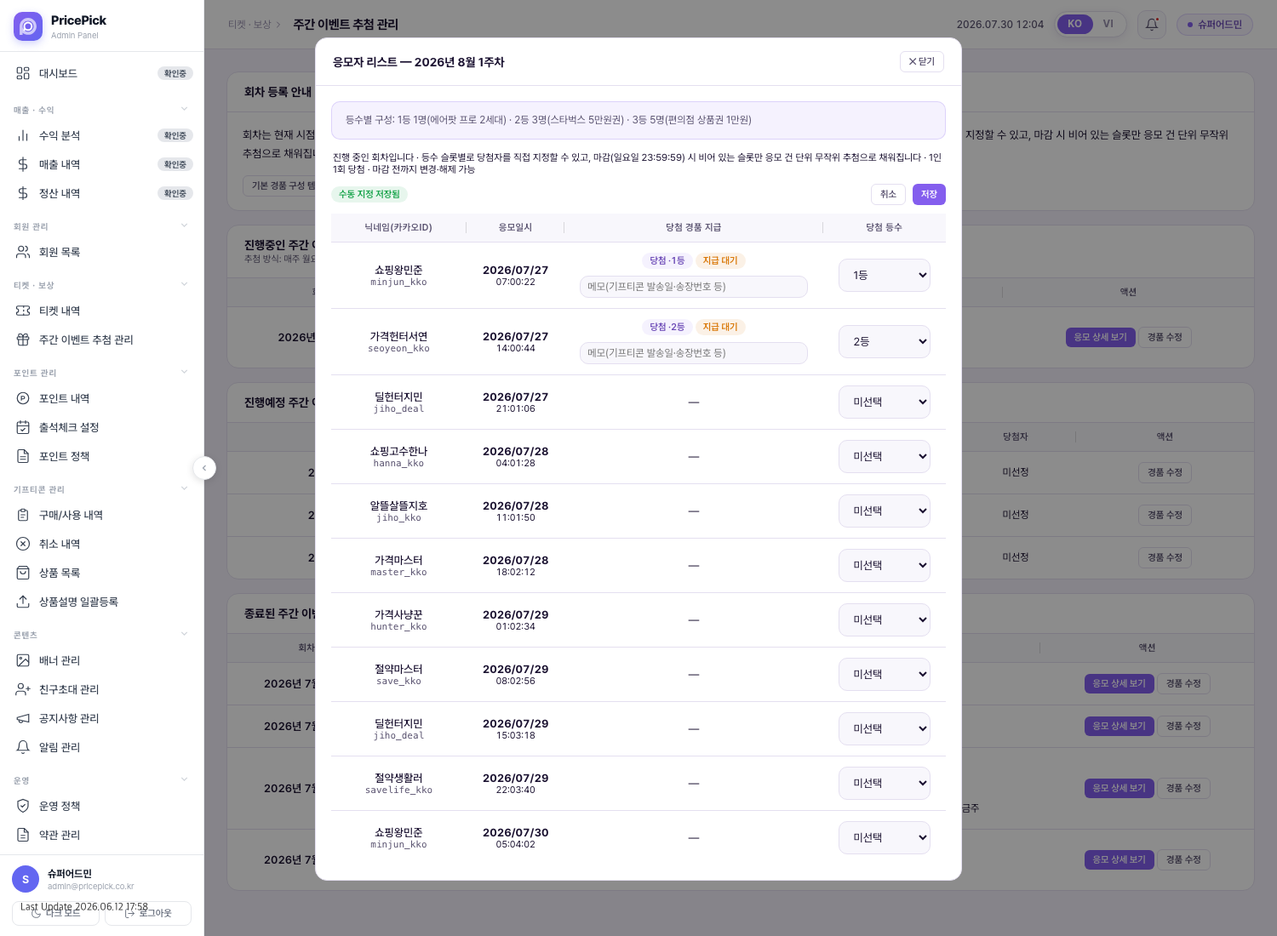
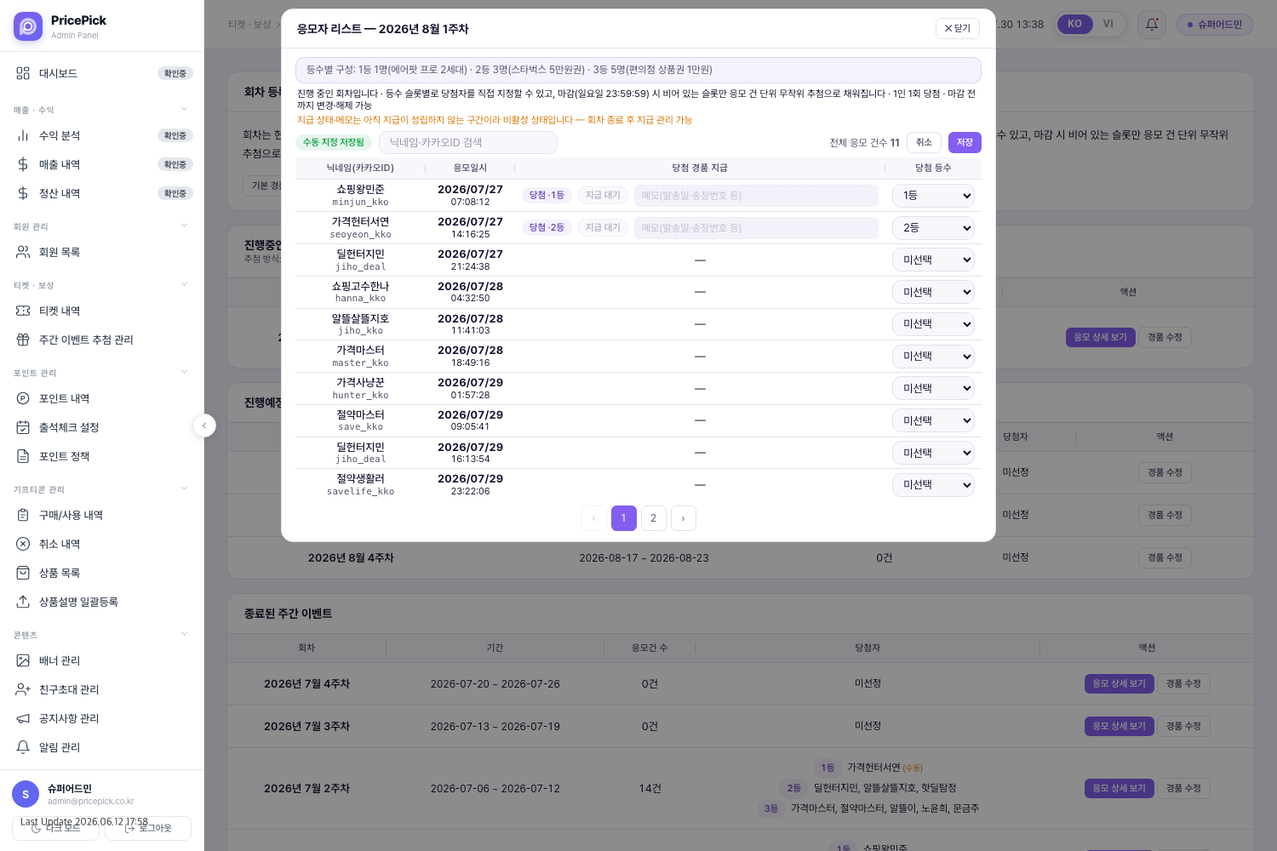
진행 중 회차 지급 관리 비활성화: CMS 원본 이식 + 설명서·정정 안내문 반영
마감 전에는 지급이 성립하지 않으므로 진행 중인 회차의 지급 상태 뱃지·메모칸을 잠근다(김반장 확정).

- cms.html: 데모와 동일 이식. pdPayoutLocked()로 렌더·가드를 한 곳에서 판정, 진행 중 회차는
  지급 뱃지에 클릭 핸들러 미부착(.pd-payout-off 회색·점선) + 메모칸 disabled, 두 요소에
  title 툴팁 "회차 종료 후 지급 관리 가능". 응모자 리스트 상단 안내를 2줄로 늘려 둘째 줄(앰버)에
  비활성 이유 명시. pdTogglePaid·pdSaveMemo에도 가드. 종료 회차는 기존대로 정상 동작. KO/VI 사전 2건.
- cms-storyboard/weekly-draws.html: 6절에 "지급 관리는 종료된 회차에서만 열린다" 문단 추가,
  주의사항에 비활성 콜아웃 신설, 운영 시나리오의 수동 지정 행에 지급 비활성 사실 명기.
  캡처 2종 재촬영 — 진행중(드롭다운 + 지급 비활성) / 종료(결과 뱃지 + 지급 활성)로 대비되게.
  두 캡처 모두 병렬 세션의 검색·페이지네이션·행 밀도 압축이 반영된 최신 UI 기준.
- devqa/cms-draw-manual-20260730.html: 5절 신설(추가 확정 — 진행 중 회차 지급 관리 비활성),
  구현 주의로 "화면 핸들러만 떼지 말고 토글·메모 함수에도 가드" 명시. 2절·반영 위치 갱신.

검증: 실브라우저에서 진행 중 회차 비활성(뱃지·메모·툴팁·안내 2줄) + 우회 호출 차단 확인,
종료 회차 토글·메모·저장 및 localStorage 반영 확인, KO/VI 양쪽 확인. 설명서 KO/VI 잔존 한글 0건.

diff --git a/cms-storyboard/weekly-draws.html b/cms-storyboard/weekly-draws.html
@@ -103,12 +103,13 @@ code{font-family:'SF Mono',Menlo,monospace;font-size:11.5px;background:var(--bg)
 <p><span class="i18n"><span class="ko">마감 시각이 되면 시스템이 <b>비어 있는 슬롯만</b> 채운다. 수동 지정된 사람을 뺀 나머지 응모 행을 전부 무작위로 섞은 뒤, 등수별로 남은 자리만큼 1등부터 순서대로 채우고, <b>같은 사람이 두 번 당첨되는 일은 막는다</b>(이미 당첨된 사람의 다른 응모 행은 건너뜀). 이렇게 확정된 뒤에는 <b>운영자가 당첨자를 바꿀 수 없다</b> — 종료된 회차의 "당첨 등수" 칸은 드롭다운이 아니라 결과 뱃지로만 보인다. 데모 환경에는 서버 크론이 없어서, 실제로는 CMS 화면을 여는 시점에 "마감은 지났는데 아직 추첨 안 된 회차"가 있는지 확인해 그 자리에서 대신 처리한다(운영자 눈에는 차이가 없다).</span><span class="vi">Khi đến giờ đóng đợt, hệ thống chỉ lấp <b>những suất còn trống</b>. Hệ thống xáo trộn ngẫu nhiên toàn bộ dòng dự thưởng còn lại sau khi trừ người đã được chỉ định thủ công, rồi lấp đúng số chỗ còn thiếu của từng hạng theo thứ tự từ hạng 1, đồng thời <b>chặn việc 1 người trúng hai lần</b> (bỏ qua các dòng dự thưởng khác của người đã trúng). Sau khi đã chốt như vậy thì <b>Vận hành viên không thể đổi người trúng</b> — cột "Hạng trúng thưởng" của đợt đã kết thúc chỉ hiện badge kết quả, không phải dropdown. Vì môi trường demo không có cron server, trên thực tế hệ thống kiểm tra vào lúc mở màn CMS xem có đợt nào "đã đóng nhưng chưa rút thăm" không rồi xử lý thay ngay lúc đó (Vận hành viên nhìn thấy không khác gì nhau).</span></span></p>
 <p><span class="i18n"><span class="ko">당첨으로 뽑힌 응모 행에는 <b>"당첨 · N등" 뱃지</b>가 붙고, 이런 행들은 등수 순서로 리스트 맨 위에 모인다. 회차 리스트의 "당첨자" 칸에서는 운영자가 직접 지정한 당첨자 뒤에 <b>"(수동)" 표시</b>가 붙어 자동 추첨분과 구분된다.</span><span class="vi">Dòng dự thưởng được chọn trúng sẽ có <b>badge "Trúng thưởng · Hạng N"</b>, và các dòng này được gom lên đầu danh sách theo thứ tự hạng. Ở cột "Người trúng" của danh sách đợt, người trúng do Vận hành viên trực tiếp chỉ định sẽ có thêm <b>ký hiệu "(thủ công)"</b> để phân biệt với phần rút thăm tự động.</span></span></p>
 <p><span class="i18n"><span class="ko">응모자가 많은 회차를 대비해 리스트 위에 <b>닉네임 검색창</b>이 있고, 리스트는 <b>10건씩 페이지로 나뉜다</b>. 검색은 닉네임과 카카오 아이디를 둘 다 부분 일치로 잡는다(대소문자 구분 없음) — "지민"만 쳐도 "딜헌터지민"이 걸린다. 검색창 오른쪽에는 <b>전체 응모 건수</b>가 항상 떠 있고, 검색 중에는 "검색 결과 N / 전체 응모 건수 M" 형태로 둘 다 보여준다(총계는 티켓 1장 = 1행 기준 그대로다). 정렬 규칙은 검색·페이지와 무관하게 그대로다 — <b>당첨자를 등수 순으로 먼저 세우고 그 뒤에 나머지</b>를 붙인 순서를 정해놓고 그 순서 그대로 10건씩 끊기 때문에, 1페이지 맨 위는 항상 1등이다. 당첨 뱃지·지급 상태 뱃지·메모칸도 검색 결과 안에서 똑같이 눌리고 입력된다. 검색어를 바꾸면 1페이지로 돌아가고, 모달을 닫았다 다시 열면 검색어·페이지가 초기화된다. 10건 이하면 페이지 버튼은 아예 안 나온다.</span><span class="vi">Để chuẩn bị cho các đợt có nhiều người dự thưởng, phía trên danh sách có <b>ô tìm kiếm biệt danh</b>, và danh sách được <b>chia trang 10 dòng mỗi trang</b>. Tìm kiếm khớp một phần cả biệt danh lẫn Kakao ID (không phân biệt hoa thường) — chỉ gõ "지민" cũng ra "딜헌터지민". Bên phải ô tìm kiếm luôn hiện <b>tổng số lượt dự thưởng</b>, khi đang tìm kiếm thì hiện cả hai theo dạng "Kết quả tìm kiếm N / Tổng số lượt dự thưởng M" (tổng số vẫn tính theo chuẩn 1 vé = 1 dòng như cũ). Quy tắc sắp xếp không đổi dù có tìm kiếm hay chia trang — <b>xếp người trúng lên trước theo thứ tự hạng rồi mới nối phần còn lại</b>, sau đó mới cắt 10 dòng mỗi trang theo đúng thứ tự đó, nên đầu trang 1 luôn là hạng 1. Badge trúng thưởng·badge trạng thái gửi quà·ô ghi chú trong kết quả tìm kiếm cũng bấm và nhập được y hệt. Đổi từ khóa thì quay về trang 1, đóng modal rồi mở lại thì từ khóa·trang được đặt lại. Nếu từ 10 dòng trở xuống thì nút chuyển trang không hiện.</span></span></p>
-<div class="shot"><img src="img/weekly-draws-02-entrants-modal.png" alt="응모자 리스트 — 미선정 상태, 다중 응모"><div class="cap"><span class="i18n"><span class="ko">실측 캡처 — <b>진행 중 회차</b>의 응모자 리스트(cms.html 기준). "당첨 등수"가 드롭다운이고, 1등·2등 슬롯이 수동 지정·저장된 상태(뱃지 "수동 지정 저장됨"). 같은 닉네임이 여러 행에 반복되는 게 다중 응모. 데모(트랙B)에는 이 표 위에 닉네임 검색창·페이지 버튼이 함께 붙는다</span><span class="vi">Ảnh chụp thực tế — danh sách người dự thưởng của <b>đợt đang diễn ra</b> (theo cms.html). Cột "Hạng trúng thưởng" là dropdown, và suất hạng 1·hạng 2 đang ở trạng thái đã chỉ định thủ công·đã lưu (badge "Đã lưu chỉ định thủ công"). Cùng 1 biệt danh lặp lại nhiều dòng là dự thưởng nhiều lần. Ở demo (track B) còn có ô tìm kiếm biệt danh·nút chuyển trang phía trên bảng này</span></span></div></div>
+<div class="shot"><img src="img/weekly-draws-02-entrants-modal.png" alt="응모자 리스트 — 미선정 상태, 다중 응모"><div class="cap"><span class="i18n"><span class="ko">실측 캡처 — <b>진행 중 회차</b>의 응모자 리스트. "당첨 등수"가 드롭다운이고, 1등·2등 슬롯이 수동 지정·저장된 상태(뱃지 "수동 지정 저장됨"). <b>지급 대기 뱃지와 메모칸은 회색 점선으로 비활성</b>이고, 그 이유가 상단 안내 두 번째 줄에 붙어 있다</span><span class="vi">Ảnh chụp thực tế — danh sách người dự thưởng của <b>đợt đang diễn ra</b>. Cột "Hạng trúng thưởng" là dropdown, và suất hạng 1·hạng 2 đang ở trạng thái đã chỉ định thủ công·đã lưu (badge "Đã lưu chỉ định thủ công"). <b>Badge chờ gửi quà và ô ghi chú bị vô hiệu với viền nét đứt màu xám</b>, lý do được ghi ở dòng thứ hai của phần hướng dẫn phía trên</span></span></div></div>
 
 <h2 class="sec"><span class="i18n"><span class="ko">6. 지급 관리</span><span class="vi">6. Quản lý gửi quà</span></span></h2>
 <p><span class="i18n"><span class="ko">당첨자가 확정된 응모 행에는 당첨 뱃지 옆에 <b>지급 상태 뱃지</b>가 나란히 붙는다 — 기본은 "지급 대기"이고, 뱃지를 클릭할 때마다 "지급 완료" ↔ "지급 대기"로 바뀐다. 같은 줄 오른쪽에는 한 줄짜리 자유 메모 칸이 붙어 있어 기프티콘 발송일이나 실물 경품 송장번호 같은 걸 적어둘 수 있다(칸보다 긴 메모는 마우스를 올리면 전체가 뜬다). 메모칸을 뱃지 아래로 펼치지 않고 옆에 붙인 건 <b>한 페이지 10건이 모달 내부 스크롤 없이 다 보이게</b> 하기 위해서다. 지급 상태와 메모는 <b>상단 "저장" 버튼을 눌러야 저장</b>된다 — 뱃지 클릭·메모 입력만으로는 임시 상태이고, 모달을 닫았다 다시 열면 마지막으로 저장된 상태로 돌아간다.</span><span class="vi">Dòng dự thưởng đã chốt người trúng sẽ có <b>badge trạng thái gửi quà</b> đặt cạnh badge trúng thưởng — mặc định "Chờ gửi quà", mỗi lần bấm vào badge sẽ đổi qua lại "Đã gửi quà" ↔ "Chờ gửi quà". Bên phải cùng dòng đó có ô ghi chú tự do một dòng để ghi ngày gửi Gifticon hoặc mã vận đơn quà vật lý (ghi chú dài hơn ô thì rê chuột vào sẽ hiện đầy đủ). Sở dĩ đặt ô ghi chú bên cạnh chứ không trải xuống dưới badge là để <b>10 dòng của một trang hiện hết mà không phải cuộn bên trong modal</b>. Trạng thái gửi quà và ghi chú <b>chỉ lưu khi bấm nút "Lưu"</b> phía trên — chỉ bấm badge/nhập ghi chú thôi vẫn là trạng thái tạm, đóng modal rồi mở lại sẽ trở về trạng thái đã lưu gần nhất.</span></span></p>
+<p><span class="i18n"><span class="ko">단, 지급 관리는 <b>종료된 회차에서만 열린다</b>. 진행 중인 회차에서는 지급 상태 뱃지와 메모칸이 <b>회색 점선으로 비활성</b> 상태로 보이고, 클릭·입력이 되지 않는다 — 아직 마감 전이라 지급이라는 게 성립하지 않기 때문이다. 마우스를 올리면 "회차 종료 후 지급 관리 가능"이라는 툴팁이 뜨고, 리스트 상단 안내에도 같은 내용이 한 줄 붙는다. 진행 중인 회차에서 운영자가 할 수 있는 일은 <b>당첨자 수동 지정까지</b>이고, 지급 관리는 회차가 마감된 뒤에 열린다.</span><span class="vi">Tuy nhiên, quản lý gửi quà <b>chỉ mở ở đợt đã kết thúc</b>. Ở đợt đang diễn ra, badge trạng thái gửi quà và ô ghi chú hiện ở trạng thái <b>vô hiệu với viền nét đứt màu xám</b>, không bấm·nhập được — vì chưa đóng đợt nên việc gửi quà chưa phát sinh. Rê chuột vào sẽ hiện tooltip "Có thể quản lý gửi quà sau khi đợt kết thúc", và phần hướng dẫn ở đầu danh sách cũng có thêm một dòng cùng nội dung. Ở đợt đang diễn ra, việc Vận hành viên làm được <b>chỉ đến mức chỉ định người trúng thủ công</b>; quản lý gửi quà mở ra sau khi đợt đã đóng.</span></span></p>
 <p><span class="i18n"><span class="ko">이 화면은 "보냈는지 아닌지"와 메모만 남기는 최소 기능이다. 기프티콘을 실제로 자동 발송하거나, 당첨자의 배송지·연락처 같은 수령 정보를 입력받는 화면은 <b>따로 없다</b> — 수령 정보가 필요하면 1:1 문의를 통해 운영자가 직접 받는다.</span><span class="vi">Màn này chỉ có chức năng tối thiểu để ghi lại "đã gửi hay chưa" và ghi chú. <b>Không có</b> màn tự động gửi Gifticon thật, hay màn nhập thông tin nhận quà (địa chỉ, số điện thoại...) của người trúng — nếu cần thông tin nhận quà thì Vận hành viên nhận trực tiếp qua Hỏi đáp 1:1.</span></span></p>
-<div class="shot"><img src="img/weekly-draws-03-entrants-applied.png" alt="응모자 리스트 — 당첨자 확정 상태, 지급 완료/대기 혼재"><div class="cap"><span class="i18n"><span class="ko">실측 캡처 — <b>종료된 회차</b>의 당첨자 확정 상태(cms.html 기준). "당첨 등수"가 드롭다운이 아니라 결과 뱃지로만 나온다. 상단 취소/저장 버튼, 당첨 뱃지 + 지급 상태 뱃지("지급 완료"·"지급 대기" 혼재) + 메모칸</span><span class="vi">Ảnh chụp thực tế — trạng thái đã chốt người trúng của <b>đợt đã kết thúc</b> (theo cms.html). Cột "Hạng trúng thưởng" chỉ hiện badge kết quả, không phải dropdown. Nút Hủy/Lưu phía trên, badge trúng thưởng + badge trạng thái gửi quà (lẫn "Đã gửi quà"·"Chờ gửi quà") + ô ghi chú</span></span></div></div>
+<div class="shot"><img src="img/weekly-draws-03-entrants-applied.png" alt="응모자 리스트 — 당첨자 확정 상태, 지급 완료/대기 혼재"><div class="cap"><span class="i18n"><span class="ko">실측 캡처 — <b>종료된 회차</b>의 당첨자 확정 상태. "당첨 등수"가 드롭다운이 아니라 결과 뱃지로만 나온다. <b>여기서는 지급 상태 뱃지·메모칸이 활성</b>이다("지급 완료"·"지급 대기" 혼재) — 진행 중 회차의 비활성 상태와 비교하면 차이가 보인다</span><span class="vi">Ảnh chụp thực tế — trạng thái đã chốt người trúng của <b>đợt đã kết thúc</b>. Cột "Hạng trúng thưởng" chỉ hiện badge kết quả, không phải dropdown. <b>Ở đây badge trạng thái gửi quà·ô ghi chú đang hoạt động</b> (lẫn "Đã gửi quà"·"Chờ gửi quà") — so với trạng thái vô hiệu ở đợt đang diễn ra sẽ thấy rõ khác biệt</span></span></div></div>
 
 <h2 class="sec"><span class="i18n"><span class="ko">7. 앱 연동 — 당첨 알림 · 지난 회차 당첨자 명단</span><span class="vi">7. Liên kết với app — Thông báo trúng thưởng · Danh sách người trúng đợt trước</span></span></h2>
 <p><span class="i18n"><span class="ko">앱으로 나가는 효과는 <b>회차가 마감돼 당첨자가 확정되는 순간</b>에만 생긴다. 진행 중에 수동으로 지정해 둔 것만으로는 앱에 아무 변화가 없다 — 마감 전까지는 당첨 알림도, 명단 노출도 없다.</span><span class="vi">Các hiệu ứng ra phía app chỉ xảy ra <b>ngay khi đợt đóng và người trúng được chốt</b>. Chỉ chỉ định thủ công trong lúc đợt đang diễn ra thì app không thay đổi gì — trước khi đóng đợt sẽ không có thông báo trúng thưởng, cũng không hiện danh sách.</span></span></p>
@@ -124,7 +125,7 @@ code{font-family:'SF Mono',Menlo,monospace;font-size:11.5px;background:var(--bg)
 <h2 class="sec"><span class="i18n"><span class="ko">8. 운영 시나리오</span><span class="vi">8. Kịch bản vận hành</span></span></h2>
 <table>
   <tr><th style="width:190px"><span class="i18n"><span class="ko">상황</span><span class="vi">Tình huống</span></span></th><th><span class="i18n"><span class="ko">운영자가 하는 일</span><span class="vi">Việc Vận hành viên làm</span></span></th><th><span class="i18n"><span class="ko">결과</span><span class="vi">Kết quả</span></span></th></tr>
-  <tr><td><b><span class="i18n"><span class="ko">특정 회원을 당첨자로 지정</span><span class="vi">Chỉ định một thành viên làm người trúng</span></span></b></td><td><span class="i18n"><span class="ko">진행 중인 회차의 "응모 상세 보기"를 열어 그 회원의 응모 행에서 "당첨 등수" 드롭다운으로 등수를 고르고 "저장"</span><span class="vi">Mở "Xem chi tiết dự thưởng" của đợt đang diễn ra, chọn hạng ở dropdown "Hạng trúng thưởng" tại dòng dự thưởng của thành viên đó rồi bấm "Lưu"</span></span></td><td><span class="i18n"><span class="ko">그 슬롯은 확정되고 남은 슬롯만 마감 시 무작위 추첨으로 채워진다. 마감 전까지 변경·해제 가능하며, 앱에는 마감 전까지 아무것도 노출되지 않음</span><span class="vi">Suất đó được chốt và chỉ các suất còn lại được rút thăm ngẫu nhiên khi đóng đợt. Có thể thay đổi·huỷ cho đến khi đóng đợt, và app không hiện gì cho đến khi đóng đợt</span></span></td></tr>
+  <tr><td><b><span class="i18n"><span class="ko">특정 회원을 당첨자로 지정</span><span class="vi">Chỉ định một thành viên làm người trúng</span></span></b></td><td><span class="i18n"><span class="ko">진행 중인 회차의 "응모 상세 보기"를 열어 그 회원의 응모 행에서 "당첨 등수" 드롭다운으로 등수를 고르고 "저장"</span><span class="vi">Mở "Xem chi tiết dự thưởng" của đợt đang diễn ra, chọn hạng ở dropdown "Hạng trúng thưởng" tại dòng dự thưởng của thành viên đó rồi bấm "Lưu"</span></span></td><td><span class="i18n"><span class="ko">그 슬롯은 확정되고 남은 슬롯만 마감 시 무작위 추첨으로 채워진다. 마감 전까지 변경·해제 가능하며, 앱에는 마감 전까지 아무것도 노출되지 않음. 이 단계에서 지급 상태·메모는 비활성이라 손댈 수 없음</span><span class="vi">Suất đó được chốt và chỉ các suất còn lại được rút thăm ngẫu nhiên khi đóng đợt. Có thể thay đổi·huỷ cho đến khi đóng đợt, và app không hiện gì cho đến khi đóng đợt. Ở bước này trạng thái gửi quà·ghi chú bị vô hiệu nên không thao tác được</span></span></td></tr>
   <tr><td><b><span class="i18n"><span class="ko">이번 주 당첨자 확인</span><span class="vi">Xem người trúng tuần này</span></span></b></td><td><span class="i18n"><span class="ko">마감된 회차의 "응모 상세 보기"를 열어 확정된 결과를 확인만 한다 — 종료 회차에서는 당첨자를 바꿀 수 없다</span><span class="vi">Chỉ mở "Xem chi tiết dự thưởng" của đợt đã đóng để xem kết quả đã chốt — với đợt đã kết thúc thì không đổi được người trúng</span></span></td><td><span class="i18n"><span class="ko">당첨자가 등수 순으로 리스트 맨 위에 표시되고, 회차 리스트의 "당첨자" 칸에도 등수별로 표시됨(수동 지정분에는 "(수동)" 표시)</span><span class="vi">Người trúng hiện ở đầu danh sách theo thứ tự hạng, và cột "Người trúng" ở danh sách đợt cũng hiện theo hạng (phần chỉ định thủ công có ký hiệu "(thủ công)")</span></span></td></tr>
   <tr><td><b><span class="i18n"><span class="ko">특정 회원이 응모했는지 확인</span><span class="vi">Kiểm tra một thành viên có dự thưởng không</span></span></b></td><td><span class="i18n"><span class="ko">"응모 상세 보기"를 연 뒤 리스트 위 검색창에 닉네임이나 카카오 아이디 일부를 입력한다 (문의 답변용으로 쓰는 경우가 많다)</span><span class="vi">Mở "Xem chi tiết dự thưởng" rồi nhập một phần biệt danh hoặc Kakao ID vào ô tìm kiếm phía trên danh sách (thường dùng để trả lời hỏi đáp)</span></span></td><td><span class="i18n"><span class="ko">그 회원의 응모 행만 남는다 — 몇 건 응모했는지(=티켓을 몇 장 썼는지), 당첨됐는지까지 한 번에 보인다</span><span class="vi">Chỉ còn lại các dòng dự thưởng của thành viên đó — thấy ngay đã dự thưởng bao nhiêu lượt (=dùng bao nhiêu vé) và có trúng thưởng hay không</span></span></td></tr>
   <tr><td><b><span class="i18n"><span class="ko">경품 발송 완료 표시</span><span class="vi">Đánh dấu đã gửi quà</span></span></b></td><td><span class="i18n"><span class="ko">해당 당첨자의 지급 상태 뱃지를 눌러 "지급 완료"로, 메모칸에 발송일 등 입력 → "저장"</span><span class="vi">Bấm badge trạng thái gửi quà của người trúng đó sang "Đã gửi quà", nhập ngày gửi v.v. vào ô ghi chú → "Lưu"</span></span></td><td><span class="i18n"><span class="ko">다음에 리스트를 열어도 지급 완료 상태와 메모가 그대로 남아 있음</span><span class="vi">Lần sau mở lại danh sách vẫn giữ nguyên trạng thái đã gửi và ghi chú</span></span></td></tr>
@@ -135,6 +136,7 @@ code{font-family:'SF Mono',Menlo,monospace;font-size:11.5px;background:var(--bg)
 <div class="callout warn"><div class="tt"><span class="i18n"><span class="ko">회차를 수동으로 만들거나 지울 수 없다</span><span class="vi">Không thể tự tạo hoặc xóa đợt thủ công</span></span></div><span class="i18n"><span class="ko">주간 이벤트 특성상 회차가 중간에 비면 안 되기 때문에, 회차 등록·삭제 기능은 아예 없다. 회차는 화면 접속 시 자동으로만 채워진다. 경품 구성만 "경품 수정"으로 고칠 수 있다.</span><span class="vi">Vì đặc thù sự kiện tuần không được để trống đợt giữa chừng, nên hoàn toàn không có chức năng tạo·xóa đợt. Đợt chỉ được lấp đầy tự động khi truy cập màn hình. Chỉ có thể sửa cấu hình quà qua "Chỉnh sửa giải thưởng".</span></span></div>
 <div class="callout warn"><div class="tt"><span class="i18n"><span class="ko">당첨자 수동 지정은 진행 중인 회차에서만 된다</span><span class="vi">Chỉ định người trúng thủ công chỉ được với đợt đang diễn ra</span></span></div><span class="i18n"><span class="ko">진행예정 회차는 응모가 0건이라 "응모 상세 보기" 버튼 자체가 없고, 종료된 회차는 당첨자 구성이 이미 확정돼 드롭다운이 나오지 않는다. 즉 지정·변경·해제가 가능한 구간은 <b>회차 시작 후 마감 전까지</b>뿐이다. 마감 뒤에 잘못된 당첨자를 발견해도 CMS에서 바꿀 수 없고, 재추첨 버튼도 없다 — 마감 후 조작 가능한 부분은 지급 상태·메모뿐이다.</span><span class="vi">Đợt sắp diễn ra không có lượt dự thưởng nào nên không có cả nút "Xem chi tiết dự thưởng"; đợt đã kết thúc thì cơ cấu người trúng đã chốt nên không hiện dropdown. Tức là khoảng thời gian có thể chỉ định·thay đổi·huỷ chỉ là <b>từ khi đợt bắt đầu đến trước khi đóng đợt</b>. Nếu sau khi đóng đợt mới phát hiện người trúng sai thì không đổi được trên CMS, cũng không có nút rút thăm lại — sau khi đóng đợt chỉ thao tác được trạng thái gửi quà·ghi chú.</span></span></div>
 <div class="callout warn"><div class="tt"><span class="i18n"><span class="ko">수동 지정도 "저장"을 눌러야 반영된다</span><span class="vi">Chỉ định thủ công cũng phải bấm "Lưu" mới có hiệu lực</span></span></div><span class="i18n"><span class="ko">드롭다운에서 등수를 고른 것만으로는 임시 상태다(뱃지가 "저장 전 (임시 지정)"). 저장하지 않고 모달을 닫으면 지정이 사라지고, 그 슬롯은 비어 있는 것으로 취급돼 마감 시 무작위 추첨으로 채워진다.</span><span class="vi">Chỉ chọn hạng ở dropdown thôi vẫn là trạng thái tạm (badge hiện "Trước khi lưu (chỉ định tạm)"). Nếu đóng modal mà không lưu thì chỉ định biến mất, và suất đó bị coi là còn trống nên sẽ được lấp bằng rút thăm ngẫu nhiên khi đóng đợt.</span></span></div>
+<div class="callout warn"><div class="tt"><span class="i18n"><span class="ko">진행 중인 회차에서는 지급 관리가 비활성이다</span><span class="vi">Ở đợt đang diễn ra, quản lý gửi quà bị vô hiệu</span></span></div><span class="i18n"><span class="ko">지급 상태 뱃지·메모칸은 진행 중인 회차에서 회색 점선으로 비활성 처리돼 클릭·입력이 안 된다. 마감 전에는 지급이 성립하지 않으므로 의도된 동작이다 — 툴팁("회차 종료 후 지급 관리 가능")과 리스트 상단 안내 한 줄로 이유를 알려준다. 지급 기록이 필요하면 회차가 마감된 뒤 종료 구역에서 같은 화면을 열면 된다.</span><span class="vi">Badge trạng thái gửi quà·ô ghi chú ở đợt đang diễn ra bị vô hiệu với viền nét đứt màu xám nên không bấm·nhập được. Trước khi đóng đợt thì việc gửi quà chưa phát sinh, nên đây là hành vi có chủ đích — lý do được thông báo qua tooltip ("Có thể quản lý gửi quà sau khi đợt kết thúc") và một dòng hướng dẫn ở đầu danh sách. Nếu cần ghi lại việc gửi quà thì mở đúng màn đó ở khu vực đã kết thúc sau khi đợt đã đóng.</span></span></div>
 <div class="callout warn"><div class="tt"><span class="i18n"><span class="ko">지급 상태·메모는 "저장"을 눌러야 저장된다</span><span class="vi">Trạng thái gửi quà·ghi chú chỉ lưu khi bấm "Lưu"</span></span></div><span class="i18n"><span class="ko">지급 상태 뱃지를 누르거나 메모를 입력한 것만으로는 저장되지 않는다. 모달을 닫거나(취소) 다시 열면 마지막으로 저장된 상태로 되돌아간다 — 입력 후 반드시 "저장"까지 눌러야 한다.</span><span class="vi">Chỉ bấm badge trạng thái gửi quà hoặc nhập ghi chú thì chưa được lưu. Nếu đóng modal (Hủy) hoặc mở lại thì trở về trạng thái đã lưu gần nhất — sau khi nhập phải bấm "Lưu" mới xong.</span></span></div>
 <div class="callout"><div class="tt"><span class="i18n"><span class="ko">회차명·기간은 이 화면에서 못 바꾼다</span><span class="vi">Không đổi được tên đợt·thời gian ở màn này</span></span></div><span class="i18n"><span class="ko">회차명(예: "2026년 7월 4주차")과 시작·마감일은 자동 등록 규칙(월요일 시작 ~ 일요일 23:59:59 마감)으로 고정돼 있다. "경품 수정" 모달에는 등수별 경품 항목만 있고 이름·기간을 바꾸는 입력칸은 없다.</span><span class="vi">Tên đợt (VD: "Tuần 4 tháng 7 năm 2026") và ngày bắt đầu·đóng đã cố định theo quy tắc đăng ký tự động (bắt đầu Thứ Hai ~ đóng 23:59:59 Chủ Nhật). Modal "Chỉnh sửa giải thưởng" chỉ có mục quà theo hạng, không có ô để đổi tên·thời gian.</span></span></div>
 <div class="callout"><div class="tt"><span class="i18n"><span class="ko">수령 정보 입력·경품 자동 발송은 이 화면 밖 일</span><span class="vi">Nhập thông tin nhận quà·tự động gửi quà nằm ngoài màn này</span></span></div><span class="i18n"><span class="ko">지급 상태·메모는 운영자가 손으로 남기는 기록일 뿐, 기프티콘을 실제로 자동 발송하거나 당첨자의 주소·연락처를 받는 기능은 없다. 그런 정보가 필요하면 1:1 문의로 별도 안내해 받는다.</span><span class="vi">Trạng thái gửi quà·ghi chú chỉ là bản ghi Vận hành viên tự nhập tay, không có chức năng tự động gửi Gifticon thật hay nhận địa chỉ·số điện thoại người trúng. Nếu cần thông tin đó thì hướng dẫn nhận riêng qua Hỏi đáp 1:1.</span></span></div>

diff --git a/devqa/cms-draw-manual-20260730.html b/devqa/cms-draw-manual-20260730.html
@@ -87,13 +87,13 @@ Sau khi lưu, nếu vẫn chưa đóng đợt thì có thể đổi sang dòng d
 
 <b>앱 노출 시점</b> — 당첨 알림(PRIZE_WIN)과 "지난 회차 당첨자 명단"은 <b>마감 후에만</b> 나갑니다. 마감 전에 수동 지정을 저장해도 앱에는 아무 변화가 없습니다. 즉 <code>prize_winners</code> 기록은 마감 시점에 최종 당첨자(수동 지정분 포함) 전체를 한 번에 씁니다 — 수동 지정 저장 시에는 쓰지 않습니다. 여기가 구현에서 가장 틀리기 쉬운 지점입니다.
 
-<b>지급 관리</b> — 지급 상태 뱃지·메모, "저장" 눌러야 반영, 수령 정보는 1:1 문의로 받는 것 모두 그대로입니다.</span><span class="vi"><b>Quy tắc rút thăm tự động</b> — ngẫu nhiên theo đơn vị lượt dự thưởng (1 vé = 1 dòng), lấp theo thứ tự từ hạng 1 cho đến đủ số lượng từng hạng, mỗi người chỉ trúng 1 lần, không hoàn lại. Việc dùng càng nhiều vé thì xác suất càng cao cũng giữ nguyên.
+<b>지급 관리</b> — 지급 상태 뱃지·메모, "저장" 눌러야 반영, 수령 정보는 1:1 문의로 받는 것 모두 그대로입니다. 단, <b>진행 중인 회차에서는 지급 관리가 비활성</b>입니다(아래 5번 참고).</span><span class="vi"><b>Quy tắc rút thăm tự động</b> — ngẫu nhiên theo đơn vị lượt dự thưởng (1 vé = 1 dòng), lấp theo thứ tự từ hạng 1 cho đến đủ số lượng từng hạng, mỗi người chỉ trúng 1 lần, không hoàn lại. Việc dùng càng nhiều vé thì xác suất càng cao cũng giữ nguyên.
 
 <b>Đăng ký đợt tự động</b> — tạo rolling 4 tuần tính từ thời điểm truy cập, bắt đầu 0h Thứ Hai ~ đóng 23:59:59 Chủ Nhật, tên đợt tự động đặt theo ngày đóng. Không có đăng ký·xóa thủ công.
 
 <b>Thời điểm hiển thị trên app</b> — thông báo trúng thưởng (PRIZE_WIN) và "danh sách người trúng đợt trước" chỉ ra <b>sau khi đóng đợt</b>. Dù đã lưu chỉ định thủ công trước khi đóng đợt thì app vẫn không thay đổi gì. Tức là bản ghi <code>prize_winners</code> được viết một lần tại thời điểm đóng đợt cho toàn bộ người trúng cuối cùng (bao gồm phần chỉ định thủ công) — không viết lúc lưu chỉ định thủ công. Đây là điểm dễ làm sai nhất khi triển khai.
 
-<b>Quản lý gửi quà</b> — badge trạng thái gửi quà·ghi chú, phải bấm "Lưu" mới có hiệu lực, thông tin nhận quà nhận qua Hỏi đáp 1:1 — tất cả giữ nguyên.</span></span></div></div></div>
+<b>Quản lý gửi quà</b> — badge trạng thái gửi quà·ghi chú, phải bấm "Lưu" mới có hiệu lực, thông tin nhận quà nhận qua Hỏi đáp 1:1 — tất cả giữ nguyên. Tuy nhiên, <b>ở đợt đang diễn ra thì quản lý gửi quà bị vô hiệu</b> (xem mục 5 bên dưới).</span></span></div></div></div>
 
 <h2 class="grp"><span class="i18n"><span class="ko">3. 데이터 · 화면 처리</span><span class="vi">3. Xử lý dữ liệu · màn hình</span></span></h2>
 
@@ -133,19 +133,40 @@ VI: Người trúng thưởng được chọn theo một số tiêu chí vận h
 
 Đã đổi <b>"Tự động công bố người trúng" → "Công bố người trúng"</b> ở thẻ hero (chữ "tự động" gây hiểu nhầm rằng cả cách chọn cũng tự động). Bản thân việc chỉ định thủ công không hiển thị trên app.</span></span></div></div></div>
 
-<h2 class="grp"><span class="i18n"><span class="ko">5. 반영 위치</span><span class="vi">5. Nơi đã phản ánh</span></span></h2>
+<h2 class="grp"><span class="i18n"><span class="ko">5. 추가 확정 — 진행 중 회차는 지급 관리 비활성</span><span class="vi">5. Chốt bổ sung — Đợt đang diễn ra thì quản lý gửi quà bị vô hiệu</span></span></h2>
+
+<div class="qa"><div class="qrow"><span class="qno">추가</span><div class="qtxt"><span class="i18n"><span class="ko">진행 중인 회차에서 지급 상태 뱃지와 메모칸을 비활성 처리 (김반장 추가 확정 2026-07-30)</span><span class="vi">Vô hiệu badge trạng thái gửi quà và ô ghi chú ở đợt đang diễn ra (anh chốt bổ sung 30/07/2026)</span></span></div><span class="bd ok"><span class="i18n"><span class="ko">확정</span><span class="vi">Đã chốt</span></span></span></div>
+<div class="arow"><span class="alabel"><span class="i18n"><span class="ko">스펙</span><span class="vi">Spec</span></span></span><div class="atxt"><span class="i18n"><span class="ko">회차 상태에 따라 지급 관리가 갈립니다.
+
+<b>진행 중인 회차</b> — 지급 상태 뱃지("지급 대기"/"지급 완료")와 메모칸을 <b>비활성</b>으로 렌더합니다. 뱃지에는 클릭 핸들러를 아예 붙이지 않고, 메모 input에는 <code>disabled</code>를 걸었습니다. 회색 + 점선 테두리로 비활성임이 보이게 했고, 왜 못 쓰는지 알 수 있도록 <b>두 곳에서 안내</b>합니다 — 뱃지·메모칸 <code>title</code> 툴팁("회차 종료 후 지급 관리 가능")과 리스트 상단 안내 두 번째 줄("지급 상태·메모는 아직 지급이 성립하지 않는 구간이라 비활성 상태입니다 — 회차 종료 후 지급 관리 가능", 앰버색).
+
+<b>종료된 회차</b> — 지금까지와 동일하게 정상 동작합니다(뱃지 클릭 토글, 메모 입력, "저장"으로 커밋).
+
+<b>이유</b> — 마감 전에는 지급이라는 게 성립하지 않습니다. 진행 중 회차에서 운영자가 할 수 있는 일은 <b>당첨자 수동 지정까지</b>입니다.
+
+<b>구현 주의</b> — 화면에서 핸들러를 떼는 것만으로 끝내지 말고 <code>pdTogglePaid</code>·<code>pdSaveMemo</code> 진입부에도 같은 조건으로 가드를 두세요. 저희 구현은 <code>pdPayoutLocked()</code>(= 현재 회차 phase가 active인지) 한 함수로 렌더·가드를 같이 판정합니다. 토글을 우회 호출하면 토스트("회차 종료 후 지급 관리 가능")만 뜨고 상태는 바뀌지 않습니다.</span><span class="vi">Quản lý gửi quà khác nhau theo trạng thái của đợt.
+
+<b>Đợt đang diễn ra</b> — render badge trạng thái gửi quà ("Chờ gửi quà"/"Đã gửi quà") và ô ghi chú ở trạng thái <b>vô hiệu</b>. Badge không gắn handler click, ô ghi chú đặt <code>disabled</code>. Dùng màu xám + viền nét đứt để thấy rõ là vô hiệu, và <b>thông báo ở hai nơi</b> để biết lý do — tooltip <code>title</code> trên badge·ô ghi chú ("Có thể quản lý gửi quà sau khi đợt kết thúc") và dòng thứ hai của phần hướng dẫn phía trên danh sách ("Trạng thái gửi quà·ghi chú đang bị vô hiệu vì chưa tới lúc phát sinh việc gửi quà — có thể quản lý gửi quà sau khi đợt kết thúc", màu hổ phách).
+
+<b>Đợt đã kết thúc</b> — hoạt động bình thường như trước (bấm badge để đổi, nhập ghi chú, commit bằng "Lưu").
+
+<b>Lý do</b> — trước khi đóng đợt thì việc gửi quà chưa phát sinh. Ở đợt đang diễn ra, việc Vận hành viên làm được <b>chỉ đến mức chỉ định người trúng thủ công</b>.
+
+<b>Lưu ý khi triển khai</b> — đừng chỉ bỏ handler ở phía màn hình; hãy đặt guard cùng điều kiện ở đầu <code>pdTogglePaid</code>·<code>pdSaveMemo</code>. Bên mình dùng một hàm <code>pdPayoutLocked()</code> (= phase của đợt hiện tại có phải active) để quyết định cả render lẫn guard. Nếu gọi vòng qua hàm toggle thì chỉ hiện toast ("Có thể quản lý gửi quà sau khi đợt kết thúc") và trạng thái không đổi.</span></span></div></div></div>
+
+<h2 class="grp"><span class="i18n"><span class="ko">6. 반영 위치</span><span class="vi">6. Nơi đã phản ánh</span></span></h2>
 
 <div class="qa"><div class="arow" style="border-top:none;margin-top:0;padding-top:0"><span class="alabel"><span class="i18n"><span class="ko">확인</span><span class="vi">Kiểm tra</span></span></span><div class="atxt"><span class="i18n"><span class="ko">· <b>CMS 데모</b> pricepick-demo/cms — 응모자 리스트 드롭다운 부활, 마감 시 빈 슬롯만 추첨, prize_winners 마감 시 일괄 기록
 · <b>CMS 원본</b> cms.html — 동일 이식
 · <b>앱 데모</b> pricepick-demo/app · <b>인터랙티브 정본</b> interactive.html — "추첨 방식" 안내 신규 + 히어로 문구 정정 (KO/VI)
 · <b>마스터 정책서</b> policyspec.html — 10번 탭 "추첨·경품"의 당첨자 선정·당첨 확률·운영 항목 갱신 + 확정 재확인 탭에 정정 카드 신설
-· <b>CMS 설명서</b> cms-storyboard/weekly-draws.html — 1·3·5·7·8·9번 절 갱신, 캡처 재촬영(진행중 회차 드롭다운 · 종료 회차 결과 뱃지)
+· <b>CMS 설명서</b> cms-storyboard/weekly-draws.html — 1·3·5·6·7·8·9번 절 갱신(6번에 지급 관리 비활성 규칙 추가), 캡처 재촬영(진행중 회차 드롭다운·지급 비활성 / 종료 회차 결과 뱃지·지급 활성)
 
 <b>남은 확인 1건</b> — 약관 제10조(추첨 및 경품)는 "당첨자 발표 및 경품 지급 방법은 각 회차별로 고지합니다"로 되어 있어 새 스펙과 충돌하지 않습니다. 다만 앱에 "일부 운영 기준에 따라 선정"을 고지하는 만큼, 약관에도 선정 기준 관련 한 문장을 넣을지는 김반장 판단이 필요합니다.</span><span class="vi">· <b>CMS demo</b> pricepick-demo/cms — phục hồi dropdown ở danh sách người dự thưởng, khi đóng đợt chỉ rút thăm suất còn trống, ghi prize_winners một lần khi đóng đợt
 · <b>CMS gốc</b> cms.html — port y hệt
 · <b>App demo</b> pricepick-demo/app · <b>Interactive bản chính</b> interactive.html — thêm mới mục "Phương thức rút thăm" + đính chính nội dung thẻ hero (KO/VI)
 · <b>Tài liệu chính sách gốc</b> policyspec.html — cập nhật các mục chọn người trúng·xác suất trúng·vận hành ở tab 10 "Rút thăm·Quà tặng" + thêm thẻ đính chính ở tab xác nhận lại
-· <b>Tài liệu CMS</b> cms-storyboard/weekly-draws.html — cập nhật mục 1·3·5·7·8·9, chụp lại ảnh (dropdown ở đợt đang diễn ra · badge kết quả ở đợt đã kết thúc)
+· <b>Tài liệu CMS</b> cms-storyboard/weekly-draws.html — cập nhật mục 1·3·5·6·7·8·9 (mục 6 thêm quy tắc vô hiệu quản lý gửi quà), chụp lại ảnh (đợt đang diễn ra: dropdown·gửi quà vô hiệu / đợt đã kết thúc: badge kết quả·gửi quà hoạt động)
 
 <b>1 việc còn cần xác nhận</b> — Điều 10 của Điều khoản (Rút thăm và quà tặng) ghi "Phương pháp công bố người trúng và gửi quà sẽ được thông báo theo từng đợt" nên không xung đột với spec mới. Tuy nhiên vì app có thông báo "được chọn theo một số tiêu chí vận hành", việc có thêm một câu về tiêu chí chọn vào Điều khoản hay không cần anh quyết định.</span></span></div></div>
 

diff --git a/cms.html b/cms.html
@@ -508,6 +508,11 @@ body.dark .member-type-apple::before{background:#E5E7EB;}
   color:var(--text);font-family:var(--font);outline:none;text-align:left;transition:border-color .15s;}
 .pd-memo-input:focus{border-color:var(--main);}
 .pd-memo-input::placeholder{color:var(--text-3);}
+/* 진행 중인 회차: 아직 지급이 성립하지 않으므로 지급 상태 뱃지·메모칸을 비활성 표시 */
+.pd-memo-input:disabled{background:var(--surface-3,var(--surface-2));color:var(--text-3);
+  border-style:dashed;opacity:.6;cursor:not-allowed;}
+.badge.pd-payout-off{background:var(--surface-2);color:var(--text-3);border:1px dashed var(--border);
+  opacity:.75;cursor:not-allowed;}
 
 /* ── 마케팅 수신 배지 ── */
 .mkt-badge{display:inline-flex;align-items:center;padding:3px 9px;border-radius:20px;font-size:11px;font-weight:600;}
@@ -4302,6 +4307,11 @@ function pdRankBadgeHtml(r) {
 function pdConfirmedWinnerFor(uid) {
   return pdConfirmedWinners.find(function(w){ return w.user_id === uid; });
 }
+/* 지급 관리(지급 상태 뱃지 토글·메모 입력) 잠금 여부 — 진행 중인 회차는 마감 전이라 지급이 성립하지 않는다.
+   진행 중 회차에서 운영자가 할 수 있는 일은 당첨자 수동 지정까지이고, 지급 관리는 회차 종료 후에 열린다. */
+function pdPayoutLocked() {
+  return pdCurrentRoundPhase === 'active';
+}
 /* 당첨 뱃지 — 확정된(적용됨) 당첨자면 지급 상태 뱃지를 나란히 붙인다. 임시 선택 상태는 지급 상태가 아직 없으므로 당첨 뱃지만.
    "N등"은 별도 노드로 분리해 KO2VI 사전 매칭, "당첨 ·"·지급 상태 라벨도 사전 항목으로 매칭(언어 토글 시 자동 재번역). */
 function pdWinnerTagHtml(uid, r) {
@@ -4310,7 +4320,10 @@ function pdWinnerTagHtml(uid, r) {
   if (w) {
     var paid = !!w.paid;
     var payoutLabel = paid ? '지급 완료' : '지급 대기';
-    html += '<span class="badge ' + (paid ? 'badge-green' : 'badge-amber') + '" style="cursor:pointer" onclick="pdTogglePaid(\'' + uid + '\')">' + payoutLabel + '</span>';
+    /* 진행 중인 회차는 아직 지급이 성립하지 않으므로 토글 불가 — 클릭 핸들러를 아예 붙이지 않고 비활성 표시 */
+    html += pdPayoutLocked()
+      ? '<span class="badge pd-payout-off" title="회차 종료 후 지급 관리 가능">' + payoutLabel + '</span>'
+      : '<span class="badge ' + (paid ? 'badge-green' : 'badge-amber') + '" style="cursor:pointer" onclick="pdTogglePaid(\'' + uid + '\')">' + payoutLabel + '</span>';
   }
   return html;
 }
@@ -4321,6 +4334,10 @@ function pdMemoInputHtml(uid) {
   var w = pdConfirmedWinnerFor(uid);
   if (!w) return '';
   var v = ppEsc(w.memo || '');
+  /* 진행 중인 회차는 지급 자체가 아직 없으므로 메모칸도 입력 불가(비활성) — 이유는 툴팁으로 알린다 */
+  if (pdPayoutLocked()) {
+    return '<input class="pd-memo-input" placeholder="메모(발송일·송장번호 등)" title="회차 종료 후 지급 관리 가능" value="' + v + '" disabled>';
+  }
   return '<input class="pd-memo-input" placeholder="메모(발송일·송장번호 등)" title="' + v + '" value="' + v + '" onchange="pdSaveMemo(\'' + uid + '\', this.value)">';
 }
 /* 운영자가 직접 지정한 당첨자는 "(수동)" 표시를 붙여 자동 추첨분과 구분한다 */
@@ -4629,9 +4646,13 @@ function pdUpdateEntStatusBadge() {
 function pdRefreshEntrantsNote() {
   var el = document.getElementById('pd-ent-note');
   if (!el) return;
-  el.textContent = (pdCurrentRoundPhase === 'active')
-    ? '진행 중인 회차입니다 · 등수 슬롯별로 당첨자를 직접 지정할 수 있고, 마감(일요일 23:59:59) 시 비어 있는 슬롯만 응모 건 단위 무작위 추첨으로 채워집니다 · 1인 1회 당첨 · 마감 전까지 변경·해제 가능'
-    : '마감 시 비어 있던 등수 슬롯이 응모 건 단위 무작위 추첨으로 채워져 확정된 결과입니다 · 1인 1회 당첨 · 종료된 회차는 당첨자를 변경할 수 없습니다';
+  /* 진행 중 회차는 안내 2줄 — 위: 수동 지정 규칙, 아래: 지급 관리가 잠긴 이유(비활성 표시와 짝) */
+  if (pdCurrentRoundPhase === 'active') {
+    el.innerHTML = '<div>진행 중인 회차입니다 · 등수 슬롯별로 당첨자를 직접 지정할 수 있고, 마감(일요일 23:59:59) 시 비어 있는 슬롯만 응모 건 단위 무작위 추첨으로 채워집니다 · 1인 1회 당첨 · 마감 전까지 변경·해제 가능</div>'
+      + '<div style="color:var(--amber);margin-top:3px">지급 상태·메모는 아직 지급이 성립하지 않는 구간이라 비활성 상태입니다 — 회차 종료 후 지급 관리 가능</div>';
+    return;
+  }
+  el.textContent = '마감 시 비어 있던 등수 슬롯이 응모 건 단위 무작위 추첨으로 채워져 확정된 결과입니다 · 1인 1회 당첨 · 종료된 회차는 당첨자를 변경할 수 없습니다';
 }
 
 window.pdOpenEntrantsModal = function(raffleId) {
@@ -4749,6 +4770,7 @@ window.pdSaveEntrants = function() {
 
 /* 지급 상태·메모는 여기서 로컬 상태만 바꾸고, 실제 저장은 상단 "저장" 클릭 시 한 번에 처리 */
 window.pdTogglePaid = function(uid) {
+  if (pdPayoutLocked()) { toast('회차 종료 후 지급 관리 가능'); return; }
   var w = pdConfirmedWinnerFor(uid);
   if (!w) return;
   w.paid = !w.paid;
@@ -4756,6 +4778,7 @@ window.pdTogglePaid = function(uid) {
 };
 
 window.pdSaveMemo = function(uid, value) {
+  if (pdPayoutLocked()) return;
   var w = pdConfirmedWinnerFor(uid);
   if (!w) return;
   w.memo = value;
@@ -6164,6 +6187,11 @@ Object.assign(KO2VI,{
   "이미 다른 응모 건으로 당첨 처리된 응모자입니다 (1인 1회 당첨).":"Người này đã được chọn trúng thưởng ở một lượt dự thưởng khác (mỗi người chỉ trúng 1 lần).",
   "수동 지정 당첨자가 저장되었습니다. 남은 슬롯은 마감 시 무작위 추첨으로 채워집니다.":"Đã lưu người trúng thưởng chỉ định thủ công. Các suất còn lại sẽ được rút thăm ngẫu nhiên khi đóng đợt.",
   "수동 지정이 모두 해제되었습니다. 마감 시 전체가 무작위 추첨으로 결정됩니다.":"Đã huỷ toàn bộ chỉ định thủ công. Khi đóng đợt, toàn bộ sẽ được quyết định bằng rút thăm ngẫu nhiên."
+});
+/* 진행 중 회차 지급 관리 비활성(2026-07-30) — 툴팁·안내문구 */
+Object.assign(KO2VI,{
+  "회차 종료 후 지급 관리 가능":"Có thể quản lý gửi quà sau khi đợt kết thúc",
+  "지급 상태·메모는 아직 지급이 성립하지 않는 구간이라 비활성 상태입니다 — 회차 종료 후 지급 관리 가능":"Trạng thái gửi quà·ghi chú đang bị vô hiệu vì chưa tới lúc phát sinh việc gửi quà — có thể quản lý gửi quà sau khi đợt kết thúc"
 });
 
   var _orig=new Map(), _tracked=new Set(), _applying=false;
